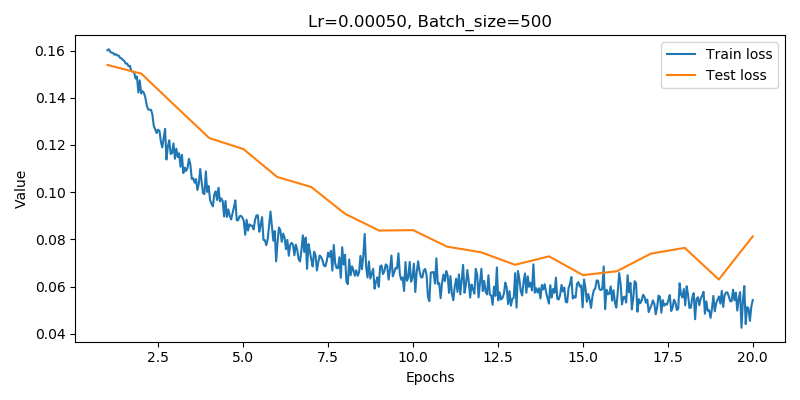
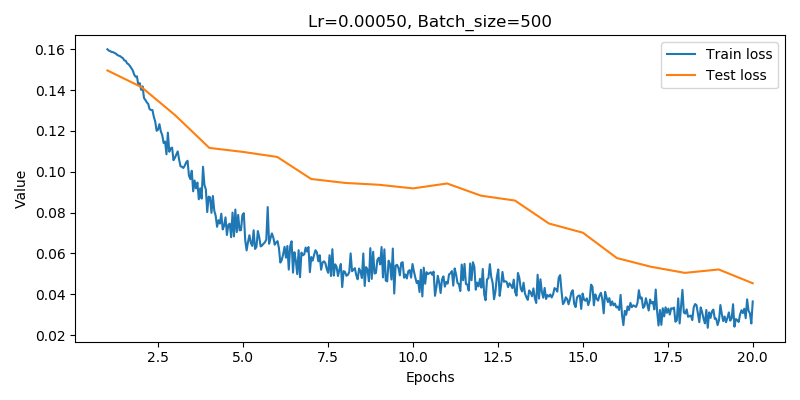
unsqeeze conv layers

diff --git a/cnn_attempt.py b/cnn_attempt.py
@@ -117,14 +117,14 @@ y_train_tensor = torch.tensor(y_train, dtype=torch.float64, device=device)
 x_test_tensor = torch.tensor(x_test, dtype=torch.float64, device=device).unsqueeze(1)
 y_test_tensor = torch.tensor(y_test, dtype=torch.float64, device=device)
 
-batch_size = 200
+batch_size = 500
 # noinspection PyUnresolvedReferences
 train_dataset = torch.utils.data.TensorDataset(x_train_tensor, y_train_tensor)
 # noinspection PyUnresolvedReferences
 train_loader = torch.utils.data.DataLoader(train_dataset, batch_size=batch_size, shuffle=True)
 
 # Build network model, choose optimizer and loss function.
-learning_rate = 0.0001
+learning_rate = 0.001
 net = CnnNet().to(device=device, dtype=torch.float64)
 criterion = nn.MSELoss()
 optimizer = torch.optim.Adam(net.parameters(), lr=learning_rate)
@@ -133,7 +133,7 @@ optimizer = torch.optim.Adam(net.parameters(), lr=learning_rate)
 # Network training.
 test_loss_track = []
 train_loss_track = []
-epochs_number = 75
+epochs_number = 20
 for epoch in range(epochs_number):
     for batch_num, data in enumerate(train_loader, 0):
         inputs, labels = data

diff --git a/cnn_net_model.py b/cnn_net_model.py
@@ -7,7 +7,7 @@ class CnnNet(nn.Module):
     def __init__(self):
         super(CnnNet, self).__init__()
         self.input_conv = nn.Conv1d(1, 32, 5, padding=2)
-        self.rec_conv = nn.Conv1d(32, 32, 5, padding=2)
+        self.rec_convs = nn.ModuleList([nn.Conv1d(32, 32, 5, padding=2) for i in range(10)])
         self.activation = nn.ReLU()
         self.pool = nn.MaxPool1d(5, stride=2)
         self.fc1 = nn.Linear(64, 32)
@@ -17,10 +17,10 @@ class CnnNet(nn.Module):
     def forward(self, x):
         prev_x = self.input_conv(x)
 
-        for i in range(5):
-            x = self.rec_conv(prev_x)
+        for i in range(0, 10, 2):
+            x = self.rec_convs[i](prev_x)
             x = self.activation(x)
-            x = self.rec_conv(x) + prev_x
+            x = self.rec_convs[i + 1](x) + prev_x
             x = self.activation(x)
             prev_x = self.pool(x)
 
